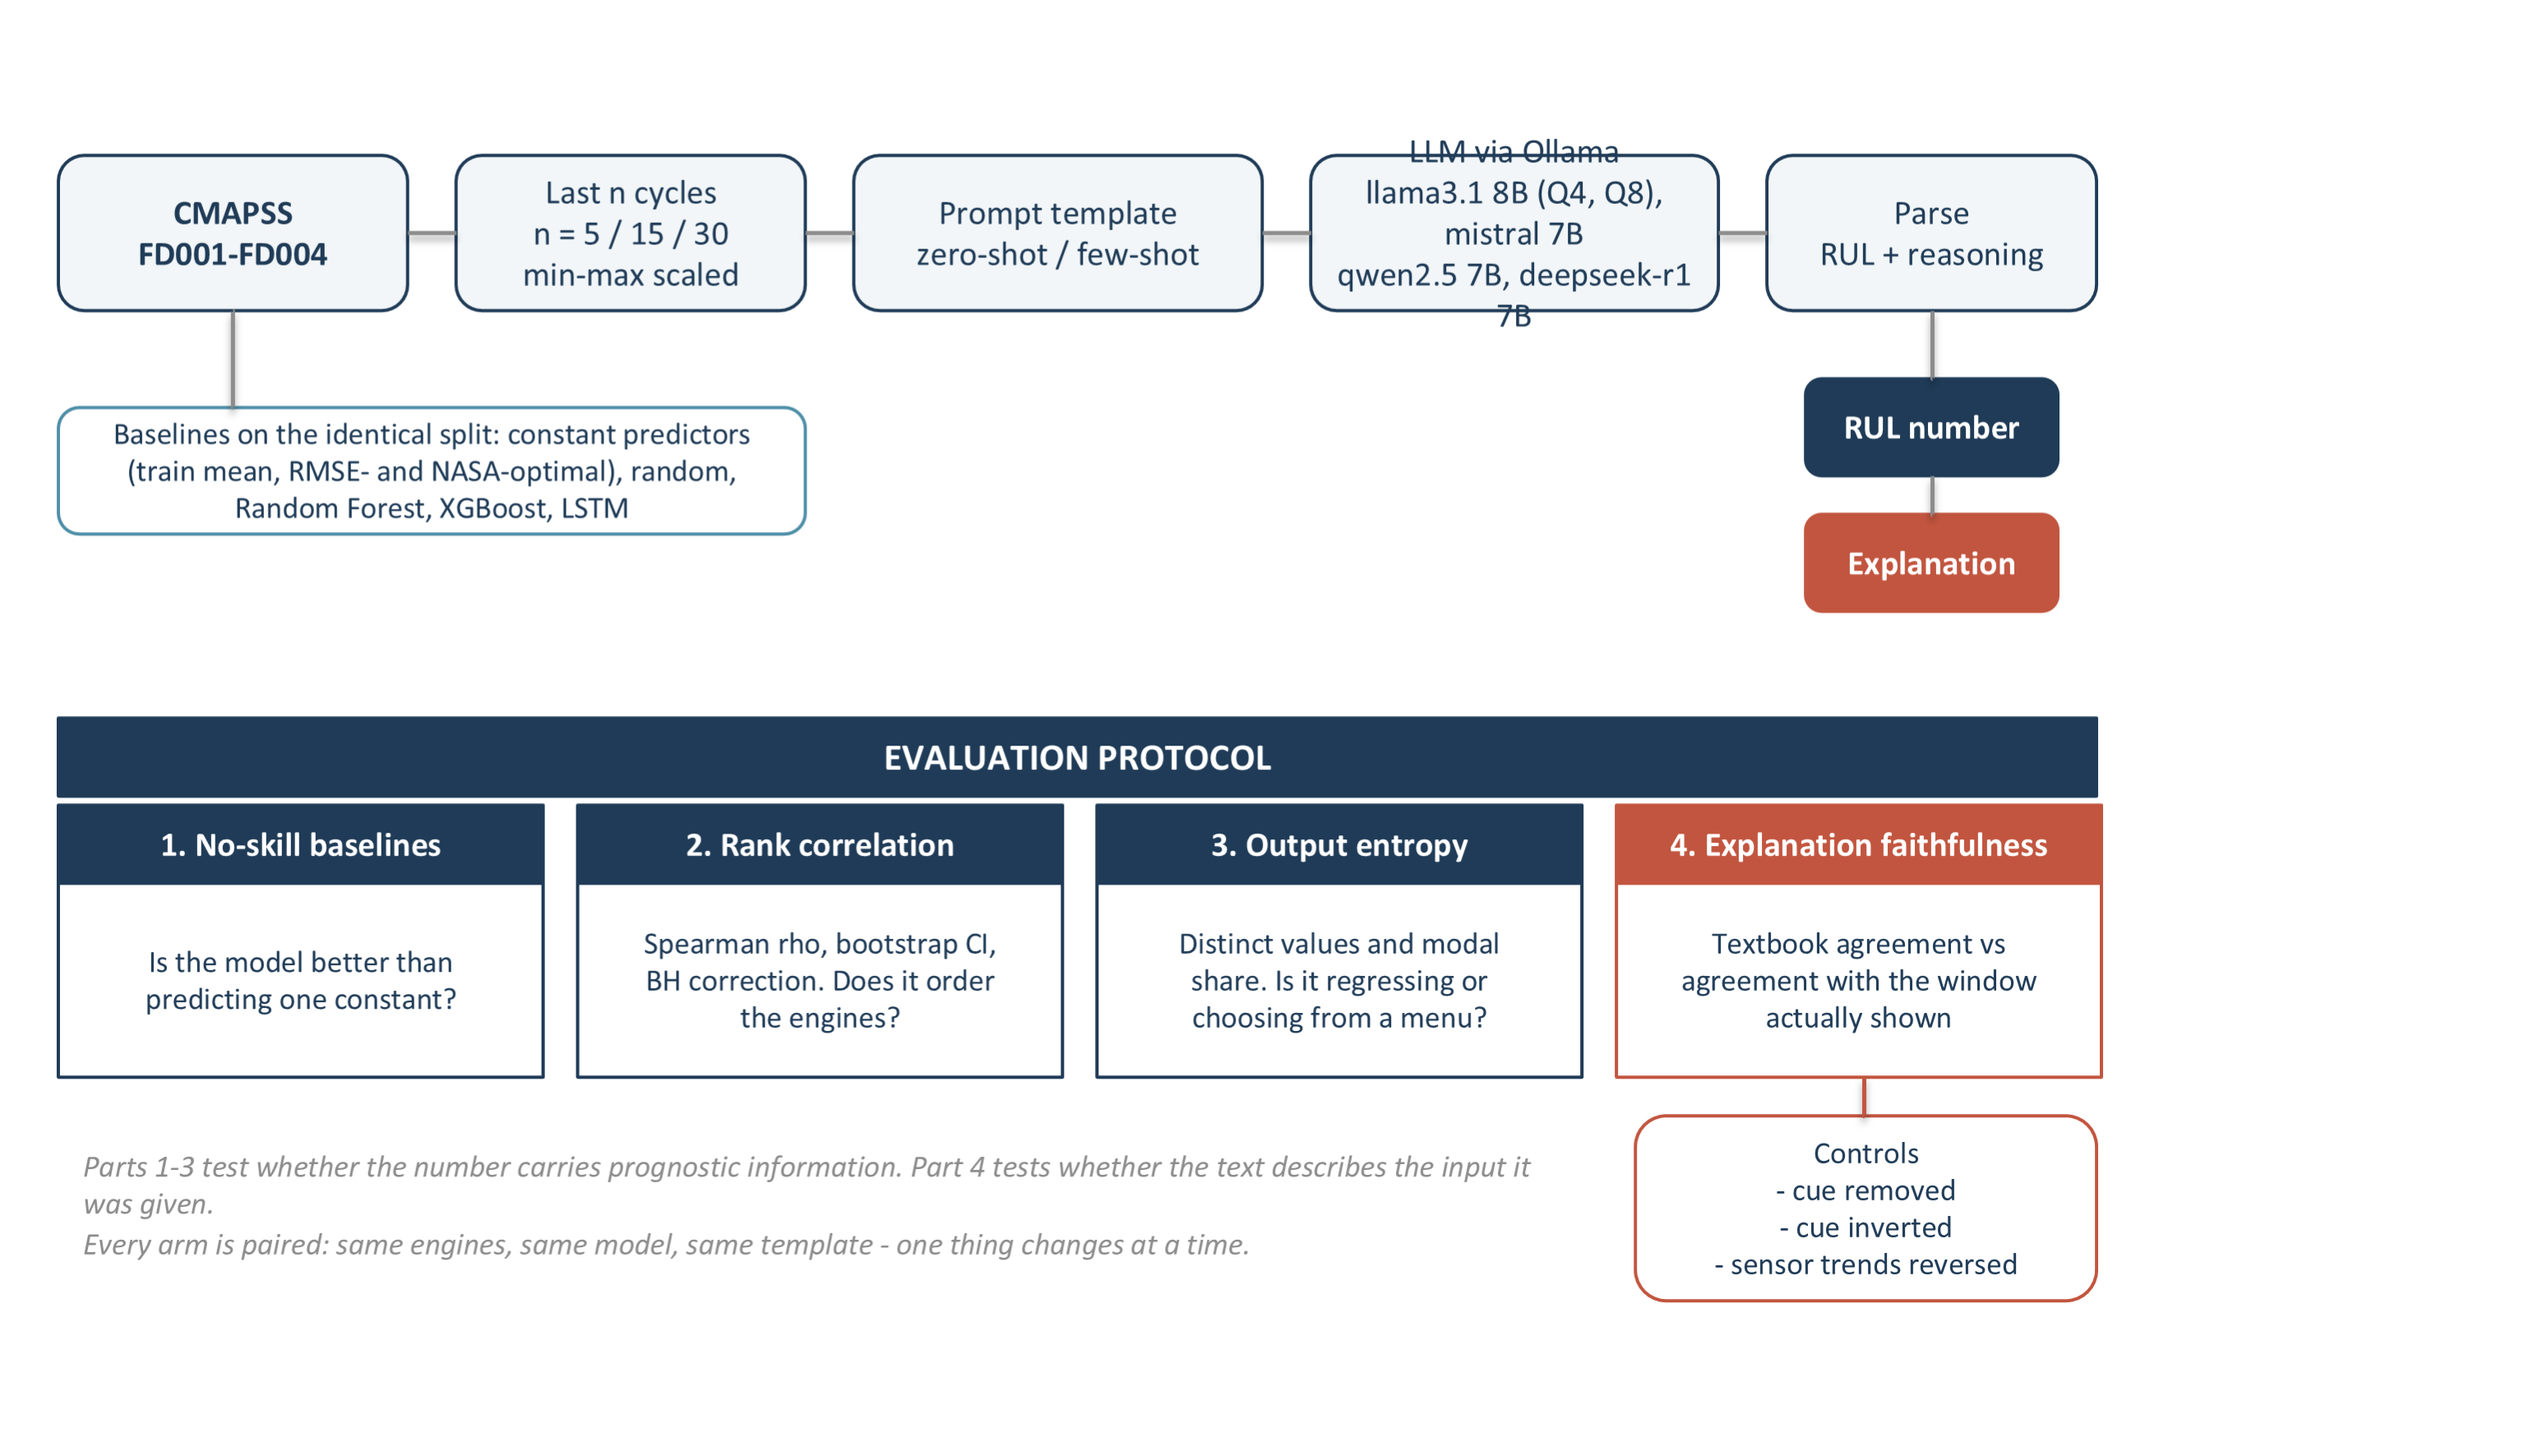
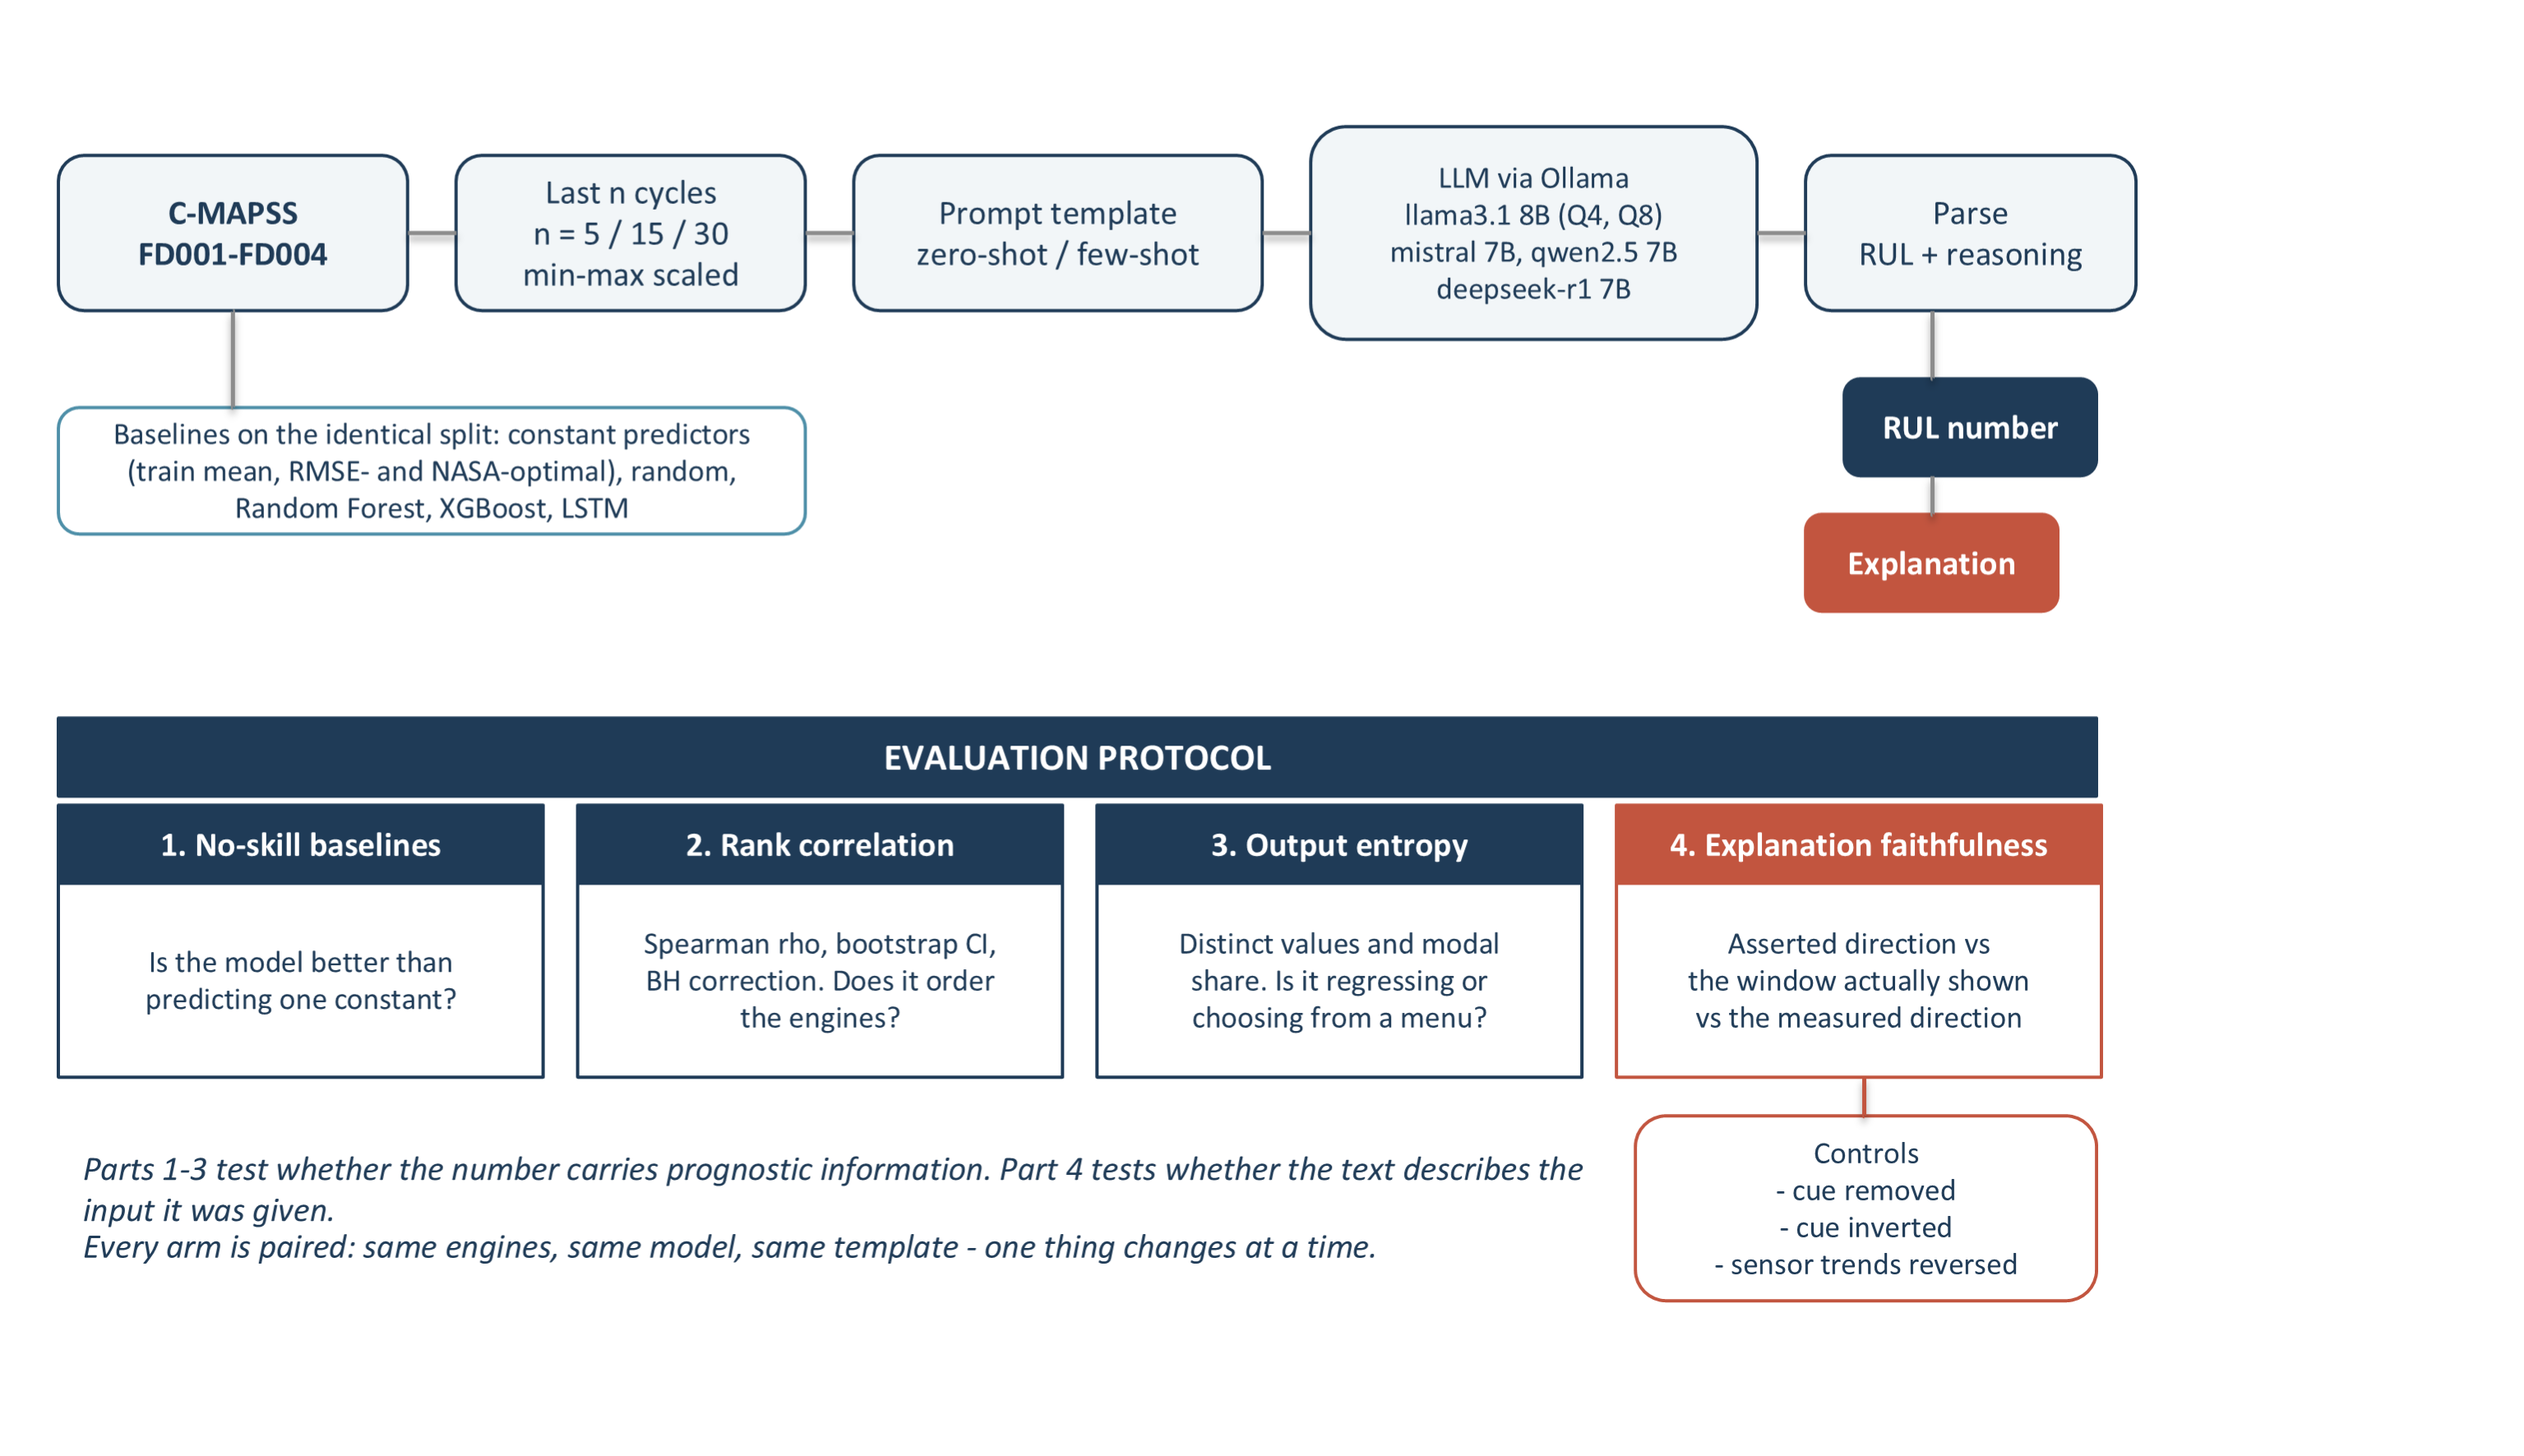
Redraw figures 1 and 4, and finish the style pass
Figure 1: the model box overflowed its border top and bottom, so "LLM via
Ollama" printed above the frame and "7B" below it. Taller box, four short lines,
and the row shifted to make room. C-MAPSS spelling, part 4 relabelled to name
the three references it now compares, and the two notes under the protocol
raised from 9 pt grey to 10 pt ink.

Figure 4 carried three quantities on two axes with a logarithmic scale on one of
them, which was there only to fit 2 against 259. Redrawn on a single linear
axis: the bar is the modal share, the distinct-value count is a label on the bar
and the engine count moved into the category label, where it is context rather
than a plotted series.

Figure 5 data labels moved outside the bars; Excel was rendering them in black
on dark navy whatever colour the series asked for.

The style pass the review put last: slogans and metadiscourse replaced by direct
statements, "answers" replaced by "returns" for numeric output, the
enumerate-then-elaborate pattern broken where the count carried nothing, and the
claim that the model's text "would pass a casual review by a domain expert"
softened, since no expert study was run. One memorable sentence is kept, the
trend-reversal one, which is literally true of what was done.

Terminology follows P3.5: the measure is agreement with the direction the prompt
asserts, not with canonical physics, since on this benchmark those differ for
three sensors. The claim that s4 and s7 have "equally well established"
[…]

diff --git a/p1/make_figures_xlsx.py b/p1/make_figures_xlsx.py
@@ -491,7 +491,7 @@ def figure_multicondition(wb):
         tr = json.loads(p.read_text(encoding="utf-8"))
         v = np.array([t["pred_rul"] for t in tr], float)
         vals, counts = np.unique(v, return_counts=True)
-        rows.append({"Dataset": f"{ds}\n(1 condition)",
+        rows.append({"Dataset": f"{ds}\n1 condition, {len(v)} engines",
                      "Distinct predicted values": int(len(vals)),
                      "Modal share (%)": 100 * counts.max() / len(v),
                      "Engines": len(v)})
@@ -506,7 +506,7 @@ def figure_multicondition(wb):
         if not len(v):
             continue
         vals, counts = np.unique(v, return_counts=True)
-        rows.append({"Dataset": f"{ds}\n(6 conditions)",
+        rows.append({"Dataset": f"{ds}\n6 conditions, {len(v)} engines",
                      "Distinct predicted values": int(len(vals)),
                      "Modal share (%)": 100 * counts.max() / len(v),
                      "Engines": len(v)})
@@ -534,38 +534,23 @@ def figure_multicondition(wb):
 
     chart = wb.add_chart({"type": "column"})
     chart.add_series({
-        "name": [name, r0, 1],
-        "categories": [name, first, 0, last, 0],
-        "values": [name, first, 1, last, 1],
-        "fill": {"color": INK}, "border": {"none": True}, "gap": 70,
-    })
-    chart.add_series({                       # engines, as the ceiling
-        "name": [name, r0, 3],
-        "categories": [name, first, 0, last, 0],
-        "values": [name, first, 3, last, 3],
-        "fill": {"color": LIGHT}, "border": {"none": True}, "gap": 70,
-    })
-    line = wb.add_chart({"type": "line"})
-    line.add_series({
         "name": [name, r0, 2],
         "categories": [name, first, 0, last, 0],
         "values": [name, first, 2, last, 2],
-        "line": {"color": ACCENT, "width": 2.0},
-        "marker": {"type": "circle", "size": 7, "fill": {"color": ACCENT},
-                   "border": {"none": True}},
-        "y2_axis": True,
+        "fill": {"color": INK}, "border": BAR_EDGE, "gap": 80,
+        # the number of distinct values belongs on the bar, not on a second axis
+        "data_labels": {
+            "value": True, "font": {"name": "Calibri", "size": 11, "color": INK},
+            "position": "outside_end", "num_format": "0",
+            "custom": [{"value": f"{int(v)} value{'s' if v != 1 else ''}"}
+                       for v in df["Distinct predicted values"]],
+        },
     })
-    chart.combine(line)
-    chart.set_title({"name": "Distinct predicted values and modal share by sub-dataset (zero-shot, n = 30)",
-                     "name_font": TITLE_FONT})
-    style_axes(chart, "Dataset", "Count (log scale)")
-    chart.set_y_axis({"name": "Distinct values / engines", "name_font": FONT,
-                      "num_font": FONT, "log_base": 10, "line": {"color": GREY},
-                      "major_gridlines": {"visible": True,
-                                          "line": {"color": GRID, "width": 0.75}}})
-    line.set_y2_axis({"name": "Modal share (%)", "name_font": FONT, "num_font": FONT,
-                      "num_format": "0", "min": 0, "max": 100})
-    chart.set_legend({"position": "bottom", "font": FONT})
+    chart.set_title({
+        "name": "Share of predictions on a single value, by sub-dataset (zero-shot, n = 30)",
+        "name_font": TITLE_FONT})
+    style_axes(chart, "Sub-dataset", "Predictions on the modal value (%)", y_max=100)
+    chart.set_legend({"none": True})
     add_chart_sheet(wb, "FIG_4", chart, 1.8, 1.4)
     return True
 

diff --git a/p1/insert_figures.py b/p1/insert_figures.py
@@ -41,8 +41,11 @@ FIGURES = {
         "reference. DeepSeek-R1, run on 50 engines, is reported in Table 3. A regressor "
         "spreads across the range; the prompted models do not."),
     4: ("The same integer comes out of all of them",
-        "Figure 4. Distinct predicted values and modal share on each of the four CMAPSS "
-        "sub-datasets, against the number of test engines. Note the logarithmic scale."),
+        "Figure 4. Share of predictions falling on the single most frequent value, on "
+        "each of the four C-MAPSS sub-datasets, zero-shot with n = 30. The label on each "
+        "bar gives the number of distinct values the model produced over the engines "
+        "named in the category label. A regressor would produce as many distinct values "
+        "as there are engines."),
     5: ("Figure 5 breaks these results down by sensor",
         "Figure 5. What the stated direction agrees with, per sensor: the direction the prompt asserts, the direction measured on the training set, the window actually supplied, and the base rate on the same claims. Cued sensors are the ones the prompt names. For s9, s12 and s14 the first two references disagree, and the claims follow the first. Faithfulness and the base rate track each other everywhere. Bars rest on between 10 (s4) and 947 (s11) directional claims."),
     6: ("The data was turned upside down and the explanation stayed the same",
@@ -52,7 +55,7 @@ FIGURES = {
     7: ("The examples determine where the anchor sits",
         "Figure 7. Mean predicted RUL against the mean RUL of the examples placed in the "
         "prompt, over seven example sets. The dashed line is the test-set mean."),
-    8: ("This is the clearest argument for reporting rank correlation",
+    8: ("Figure 8 reports the rank correlation of every FD001 configuration",
         "Figure 8. Spearman rank correlation between predicted and true RUL for the 15 FD001 "
         "runs of the main grid, with 95% bootstrap intervals. Random Forest reaches +0.813 "
         "and the repaired LSTM +0.889 on the same engines."),
@@ -72,8 +75,9 @@ ALT_TEXT = {
     3: "Distribution of predicted remaining useful life on FD001, one series per model, "
        "showing the prompted models concentrated in one or two bins while the reference "
        "distribution spreads across the range.",
-    4: "Distinct predicted values and modal share on each of the four C-MAPSS sub-datasets, "
-       "against the number of test engines.",
+    4: "Bar chart of the share of predictions falling on a single value for each of the "
+       "four C-MAPSS sub-datasets, between 51% and 83%, each bar labelled with the number "
+       "of distinct values produced.",
     5: "Per sensor, the share of directional claims that agree with the asserted direction, "
        "the share that agree with the window shown, and the base rate.",
     6: "Counts of paired responses in which the stated sensor direction did or did not follow "

diff --git a/p1/make_figure1_pptx.py b/p1/make_figure1_pptx.py
@@ -83,26 +83,27 @@ def main():
     prs.slide_height = Cm(15)
     slide = prs.slides.add_slide(prs.slide_layouts[6])   # blank
 
-    label(slide, 0.6, 0.3, 24, "Figure 1. Experimental pipeline and the four-part "
-                               "evaluation protocol", size=12, colour=INK, bold=True)
+    # No title here: the caption is set in the manuscript, and one baked
+    # into the artwork would appear twice on the page.
 
     # ---- row 1: data to prediction -------------------------------------
     y = 1.6
     box(slide, 0.6, y, 3.6, 1.6,
-        "CMAPSS\nFD001-FD004", fill=PALE, bold=True)
+        "C-MAPSS\nFD001-FD004", fill=PALE, bold=True)
     box(slide, 4.7, y, 3.6, 1.6,
         "Last n cycles\nn = 5 / 15 / 30\nmin-max scaled", fill=PALE)
     box(slide, 8.8, y, 4.2, 1.6,
         "Prompt template\nzero-shot / few-shot", fill=PALE)
-    box(slide, 13.5, y, 4.2, 1.6,
-        "LLM via Ollama\nllama3.1 8B (Q4, Q8)\nmistral 7B, qwen2.5 7B", fill=PALE)
-    box(slide, 18.2, y, 3.4, 1.6, "Parse\nRUL + reasoning", fill=PALE)
+    box(slide, 13.5, y - 0.3, 4.6, 2.2,
+        "LLM via Ollama\nllama3.1 8B (Q4, Q8)\nmistral 7B, qwen2.5 7B\ndeepseek-r1 7B", fill=PALE,
+        size=9)
+    box(slide, 18.6, y, 3.4, 1.6, "Parse\nRUL + reasoning", fill=PALE)
 
-    for x1, x2 in ((4.2, 4.7), (8.3, 8.8), (13.0, 13.5), (17.7, 18.2)):
+    for x1, x2 in ((4.2, 4.7), (8.3, 8.8), (13.0, 13.5), (18.1, 18.6)):
         arrow(slide, x1, y + 0.8, x2, y + 0.8)
 
     # ---- split into the two things being evaluated ---------------------
-    box(slide, 18.6, y + 2.3, 2.6, 1.0, "RUL number", fill=INK, line=INK,
+    box(slide, 19.0, y + 2.3, 2.6, 1.0, "RUL number", fill=INK, line=INK,
         font_colour=WHITE, bold=True, size=10)
     box(slide, 18.6, y + 3.7, 2.6, 1.0, "Explanation", fill=ACCENT, line=ACCENT,
         font_colour=WHITE, bold=True, size=10)
@@ -131,7 +132,7 @@ def main():
         ("3. Output entropy",
          "Distinct values and modal\nshare. Is it regressing or\nchoosing from a menu?", INK),
         ("4. Explanation faithfulness",
-         "Textbook agreement vs\nagreement with the window\nactually shown", ACCENT),
+         "Asserted direction vs\nthe window actually shown\nvs the measured direction", ACCENT),
     ]
     for i, (title, body, colour) in enumerate(items):
         x = 0.6 + i * (w + gap)
@@ -150,10 +151,10 @@ def main():
     label(slide, 0.6, cy + 0.2, 16,
           "Parts 1-3 test whether the number carries prognostic information. "
           "Part 4 tests whether the text describes the input it was given.",
-          size=9, colour=GREY)
+          size=10, colour=INK)
     label(slide, 0.6, cy + 1.0, 16,
           "Every arm is paired: same engines, same model, same template - one thing "
-          "changes at a time.", size=9, colour=GREY)
+          "changes at a time.", size=10, colour=INK)
 
     prs.save(OUT)
     print(f"[saved] {OUT}")
